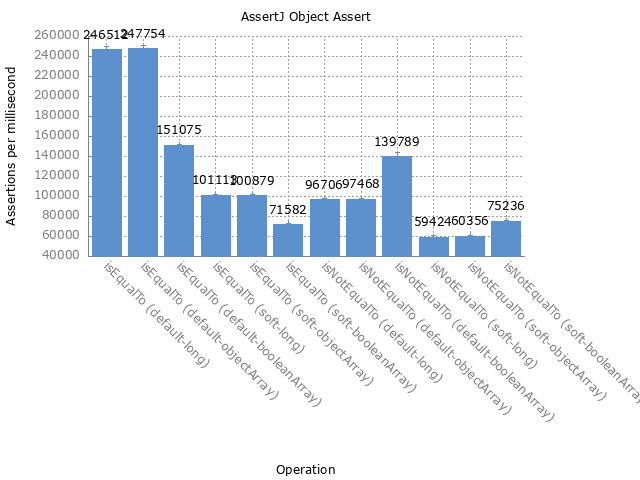
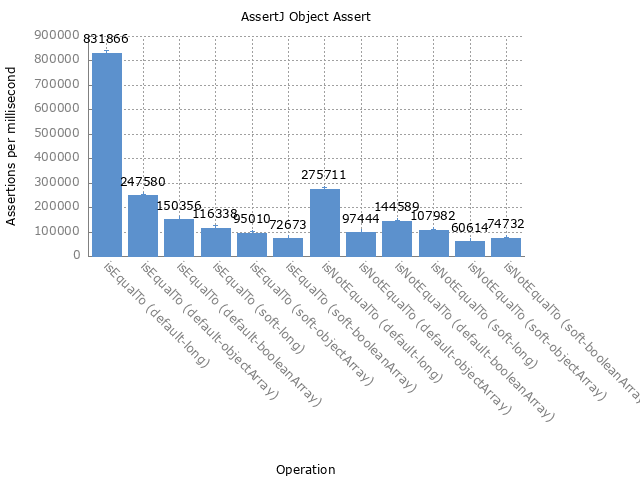
Fix incorrect break for long benchmark

Changed region(s): [[0.0312, 0.0625, 0.8125, 0.5625]]

diff --git a/src/main/java/org/assertj/benchmark/ObjectAssertBenchmark.java b/src/main/java/org/assertj/benchmark/ObjectAssertBenchmark.java
@@ -65,6 +65,7 @@ public class ObjectAssertBenchmark {
                 actual = 10L;
                 expectedEqualTo = 10L;
                 expectedNotEqualTo = 8L;
+                break;
             case "objectArray":
                 actual = new String[] { "Yoda", "Luke" };
                 expectedEqualTo = new String[] { "Yoda", "Luke" };
